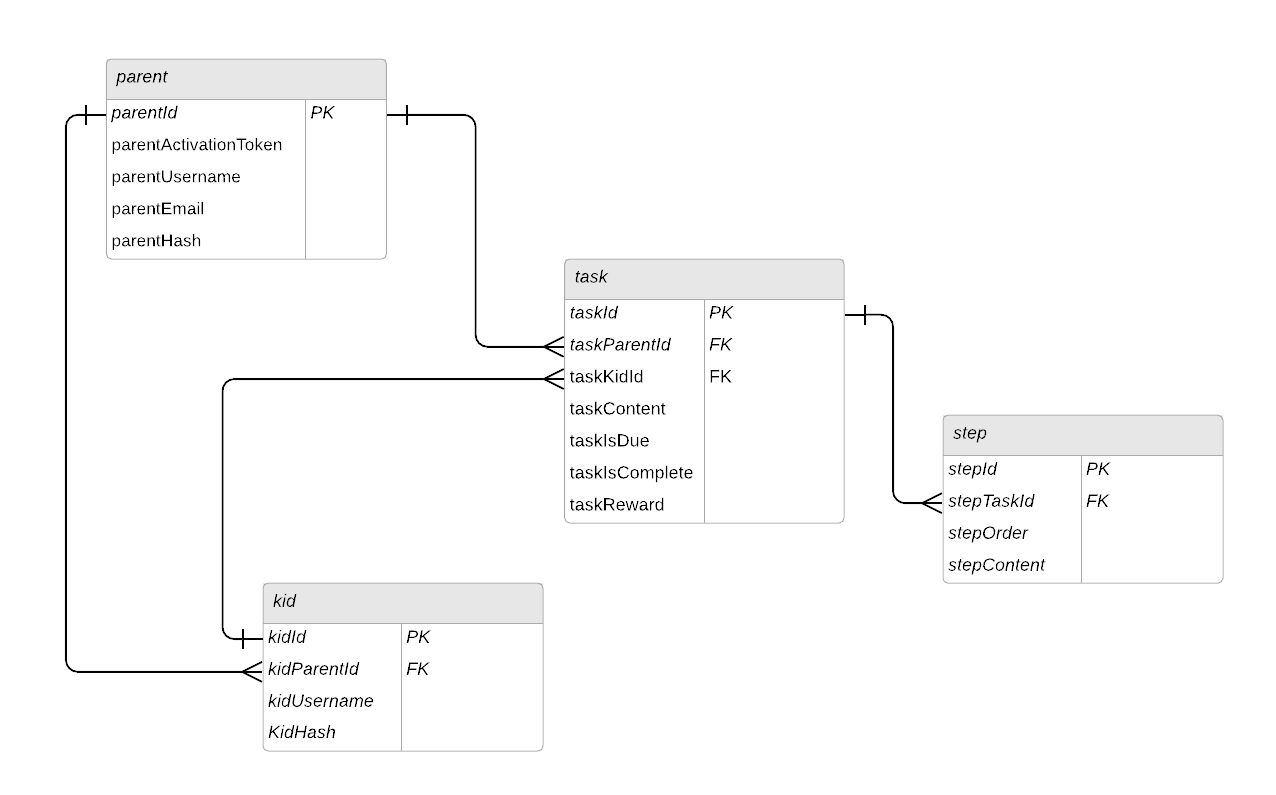
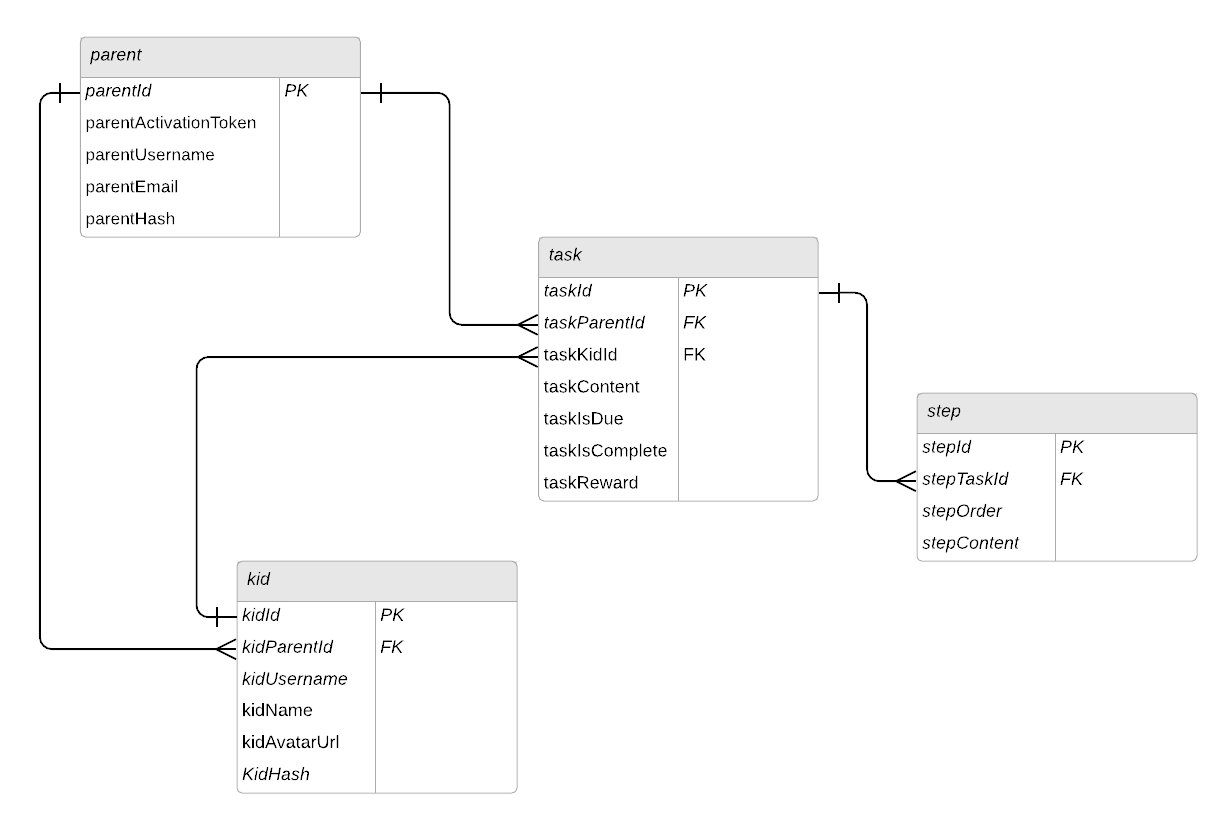
added attributes to Kid entity and updated ERD

diff --git a/epic/personas/conceptual-model.html b/epic/personas/conceptual-model.html
@@ -29,6 +29,8 @@
 <p>kidId (primary key)<br>
 	kidParentId (foreign key)<br>
 	kidUsername<br>
+	kidName <br>
+	kidAvatarUrl <br>
 	kidHash<br>
 </p>
 
